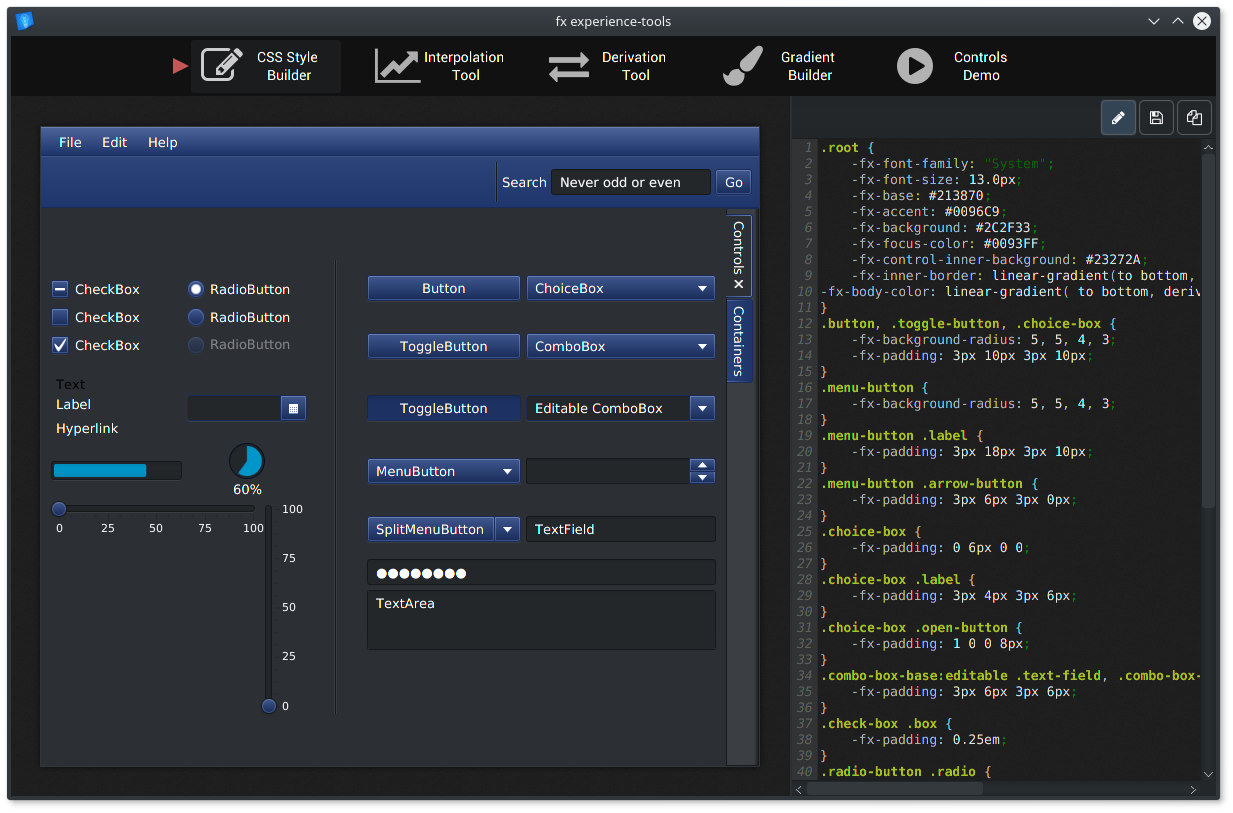
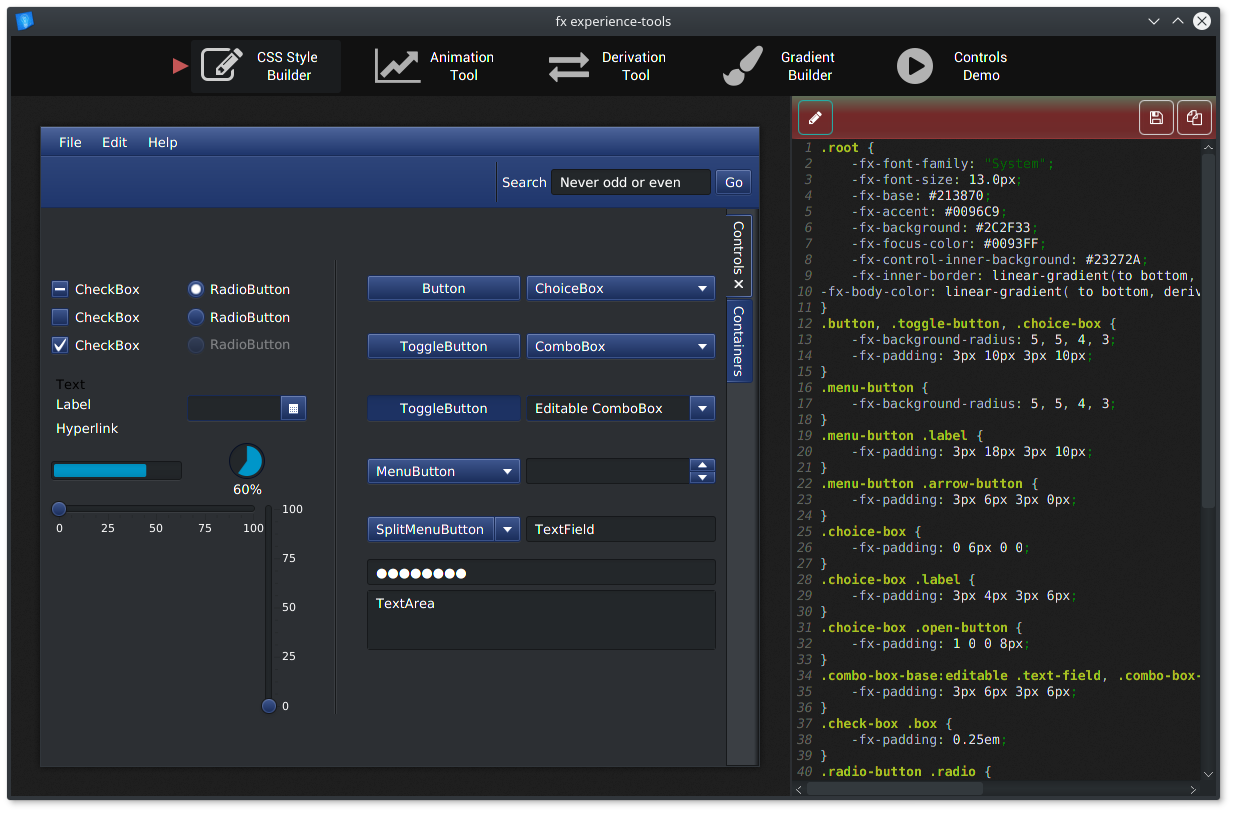
update theme

Changed region(s): [[0.6164, 0.0923, 0.9862, 0.1845], [0.339, 0.0615, 0.4006, 0.123]]

diff --git a/FXExperienceTools/src/main/resources/styles/style_panel_dark.css b/FXExperienceTools/src/main/resources/styles/style_panel_dark.css
@@ -41,17 +41,17 @@
 }
 
 .button-hbox {
-    -fx-background-color: derive(-fe-inner-background,-30%),
-        linear-gradient(to bottom,
-            derive(-fe-inner-background,-3%),
-            derive(-fe-inner-background, 0%) 50%,
-            derive(-fe-inner-background,-3%));
-    -fx-background-radius: 3, 1, 2;
+    -fx-background-color: linear-gradient(from 100.0% 0.0% to 100.0% 99.0% , #606c57 0.0% , #606c57 1.0% , #732929 43.0% , #702a2a 82.0% , #723232 100.0% );
+        /*linear-gradient(to bottom,*/
+            /*derive(-fe-inner-background,-3%),*/
+            /*derive(-fe-inner-background, 0%) 50%,*/
+            /*derive(-fe-inner-background,-3%));*/
+    -fx-background-radius: 1, 2, 3, 2;
 }
-.style-button {
-    -fx-background-color: -fe-shadow-highlight-color, -fe-inner-border, -fe-inner-border, -fe-body-color;
+/*.style-button {*/
+    /*-fx-background-color: -fe-shadow-highlight-color, -fe-inner-border, -fe-inner-border, -fe-body-color;*/
 
-}
+/*}*/
 
 .font-radio-button {
     -fx-text-fill: -fe-inner-text;
@@ -73,7 +73,7 @@
 .style-button {
     -fx-font-size: .825em;
     -fx-background-color: transparent;
-    -fx-border-color: #5c5c5c;
+    -fx-border-color: lightgrey;
     -fx-pref-width: 35px;
     -fx-pref-height: 35px;
     -fx-border-radius: 5;
@@ -81,8 +81,8 @@
 }
 
 .style-button:focused {
-    -fx-background-color: -fe-focus-background;
-    -fx-border-color: #5c5c5c;
+    /*-fx-background-color: -fe-focus-background;*/
+    -fx-border-color: lightseagreen;
     -fx-max-width: 35px;
     -fx-max-height: 35px;
     -fx-text-fill: #E7E7E7;

diff --git a/FXExperienceTools/src/main/resources/styles/code_area.css b/FXExperienceTools/src/main/resources/styles/code_area.css
@@ -12,7 +12,7 @@
 }
 
 .code-area .lineno {
-    -fx-background-color: #313335;
+    -fx-background-color: #1e1e1e;
 }
 
 .code-area .lineno .text {
